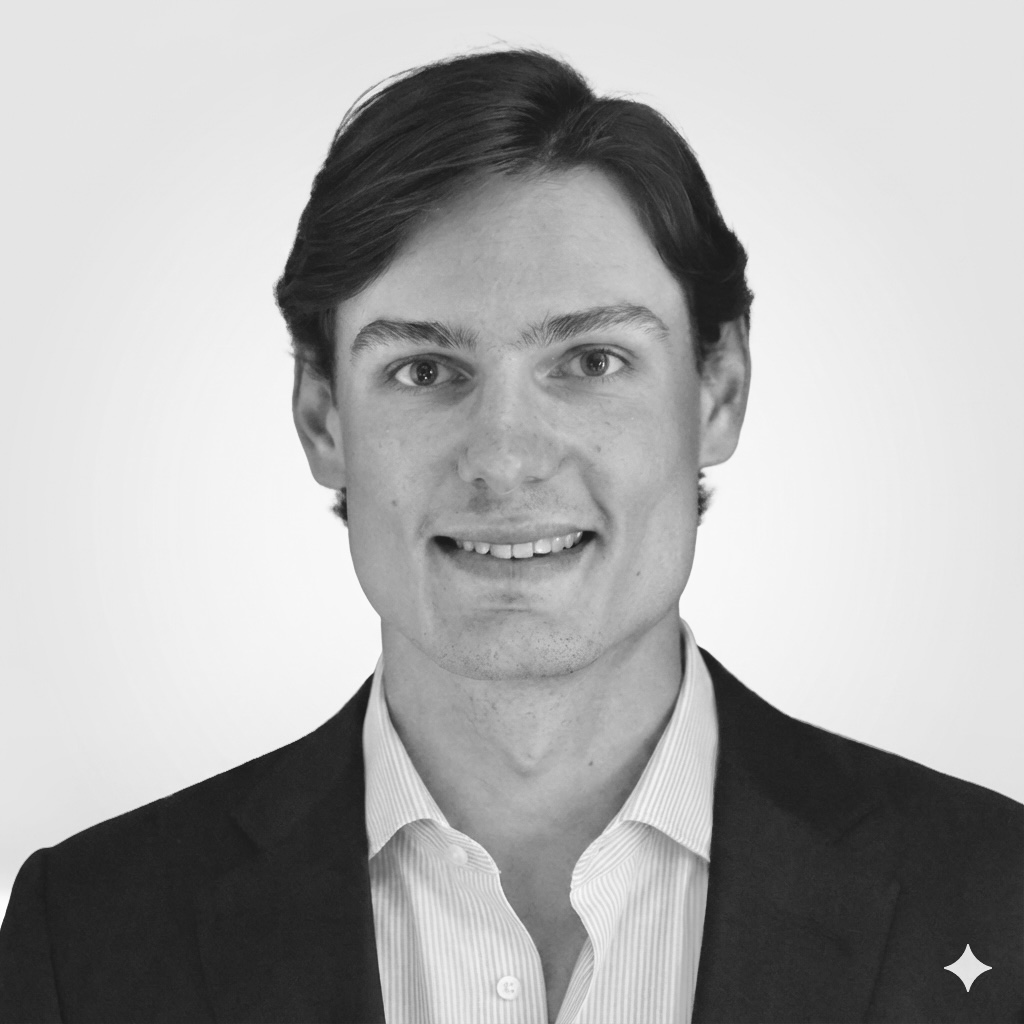
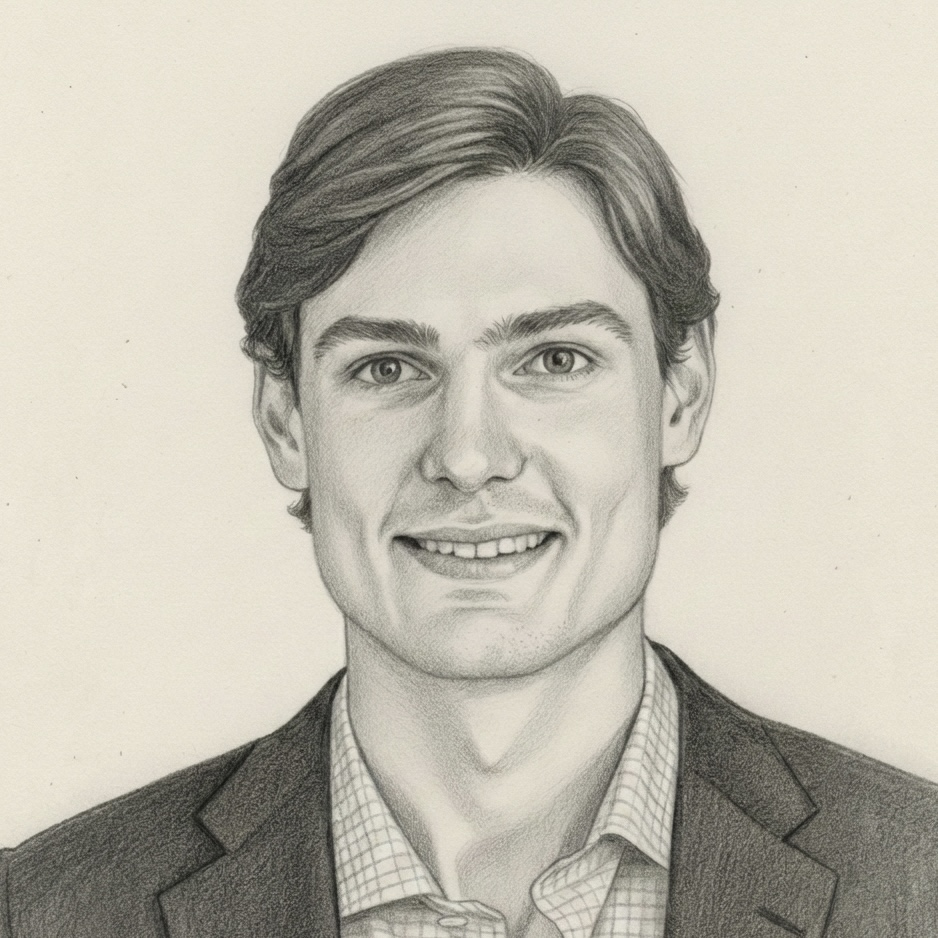
Make site responsive, bump font to 16px, update portrait.

diff --git a/static/style.css b/static/style.css
@@ -1,6 +1,7 @@
 body {
   font-family: Helvetica;
-  font-size: 13px;
+  font-size: 16px;
+  margin: 20px;
 }
 
 #menu {
@@ -44,6 +45,7 @@ body {
   margin-top: 15px;
   float: left;
   width: 500px;
+  max-width: 100%;
 }
 
 #content h1, #content h2, #content h3 {
@@ -56,13 +58,18 @@ body {
 }
 
 #content .byline, #content .byline a, #content .note {
-  font-size: 10px;
+  font-size: 12px;
   color: #aaa;
 }
 
 #content p, #content ul {
   color: #333;
-  line-height: 18px;
+  line-height: 1.5;
+}
+
+#content img {
+  max-width: 100%;
+  height: auto;
 }
 
 #content sup.note {
@@ -102,4 +109,31 @@ sup, sub {
 }
 sub {
   top: 0.4em;
+}
+
+@media (max-width: 768px) {
+  body {
+    margin: 16px;
+  }
+  #menu {
+    float: none;
+    margin: 0 0 16px 0;
+    text-align: left;
+    width: auto;
+  }
+  #menu ul {
+    display: flex;
+    flex-wrap: wrap;
+    gap: 6px 18px;
+    margin-top: 6px;
+  }
+  #left {
+    display: none;
+  }
+  #content {
+    float: none;
+    width: auto;
+    max-width: 100%;
+    margin-top: 8px;
+  }
 }

diff --git a/questions/index.html b/questions/index.html
@@ -2,6 +2,7 @@
 <head>
   <link rel="stylesheet" href="/static/style.css">
   <meta charset="utf-8">
+  <meta name="viewport" content="width=device-width, initial-scale=1">
   <title>Questions · Leopold Goedhart</title>
 </head>
 <body>

diff --git a/advice/index.html b/advice/index.html
@@ -2,6 +2,7 @@
 <head>
   <link rel="stylesheet" href="/static/style.css">
   <meta charset="utf-8">
+  <meta name="viewport" content="width=device-width, initial-scale=1">
   <title>Advice · Leopold Goedhart</title>
 </head>
 <body>

diff --git a/about/index.html b/about/index.html
@@ -2,6 +2,7 @@
 <head>
   <link rel="stylesheet" href="/static/style.css">
   <meta charset="utf-8">
+  <meta name="viewport" content="width=device-width, initial-scale=1">
   <title>About · Leopold Goedhart</title>
 </head>
 <body>

diff --git a/links/index.html b/links/index.html
@@ -2,6 +2,7 @@
 <head>
   <link rel="stylesheet" href="/static/style.css">
   <meta charset="utf-8">
+  <meta name="viewport" content="width=device-width, initial-scale=1">
   <title>Links · Leopold Goedhart</title>
 </head>
 <body>

diff --git a/index.html b/index.html
@@ -2,6 +2,7 @@
 <head>
   <link rel="stylesheet" href="/static/style.css">
   <meta charset="utf-8">
+  <meta name="viewport" content="width=device-width, initial-scale=1">
   <title>Home · Leopold Goedhart</title>
 </head>
 <body>
